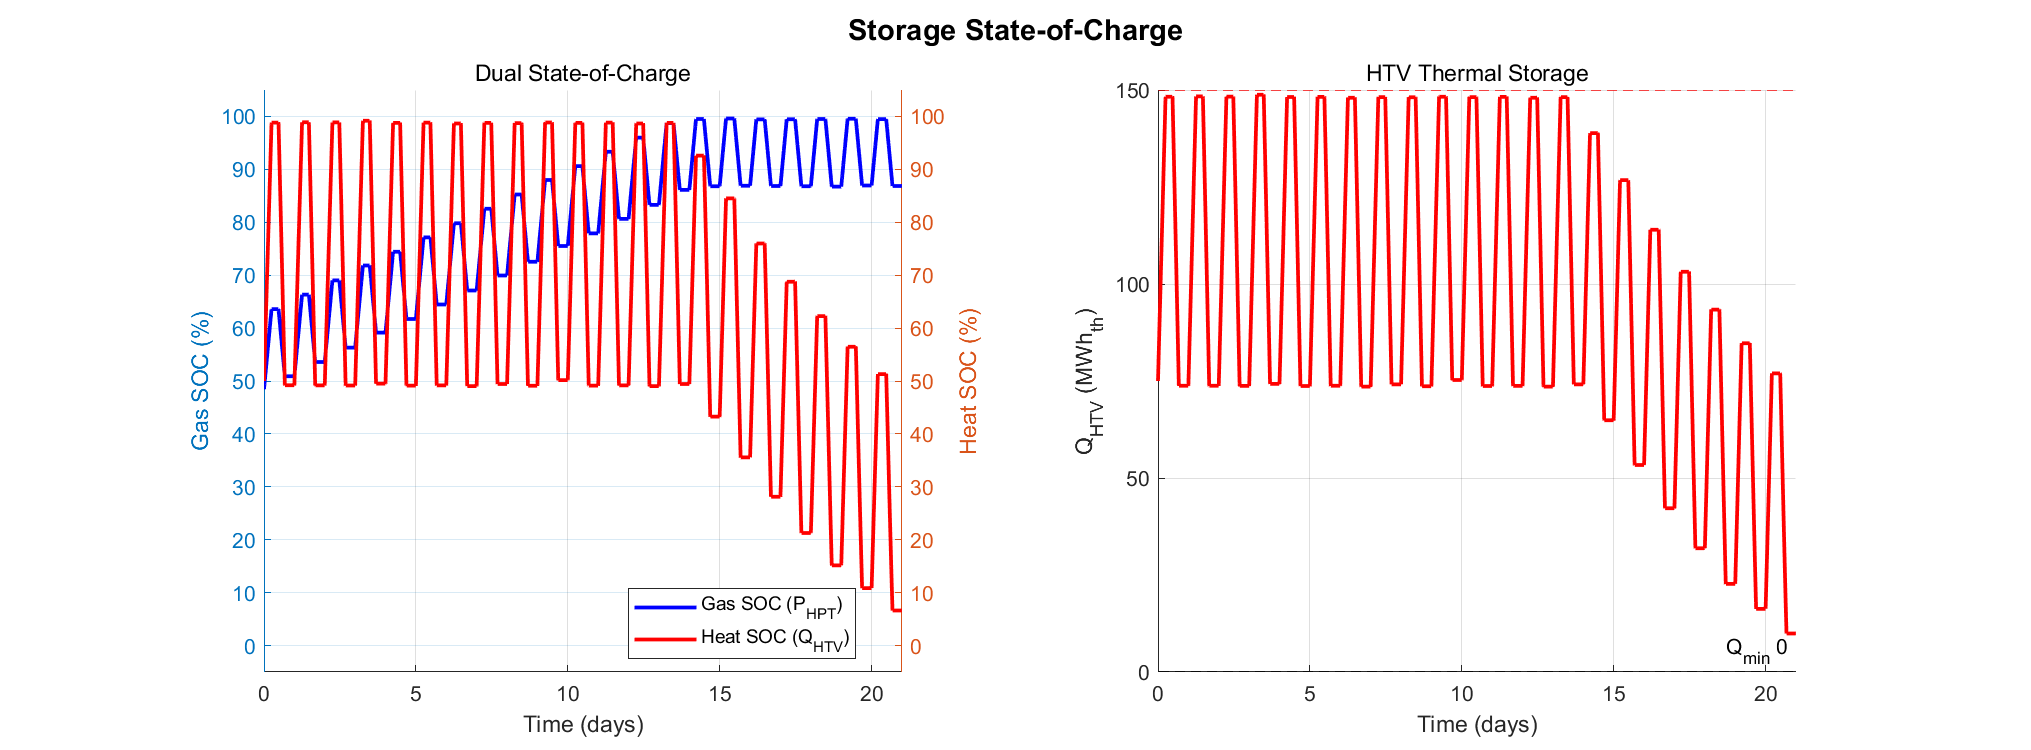
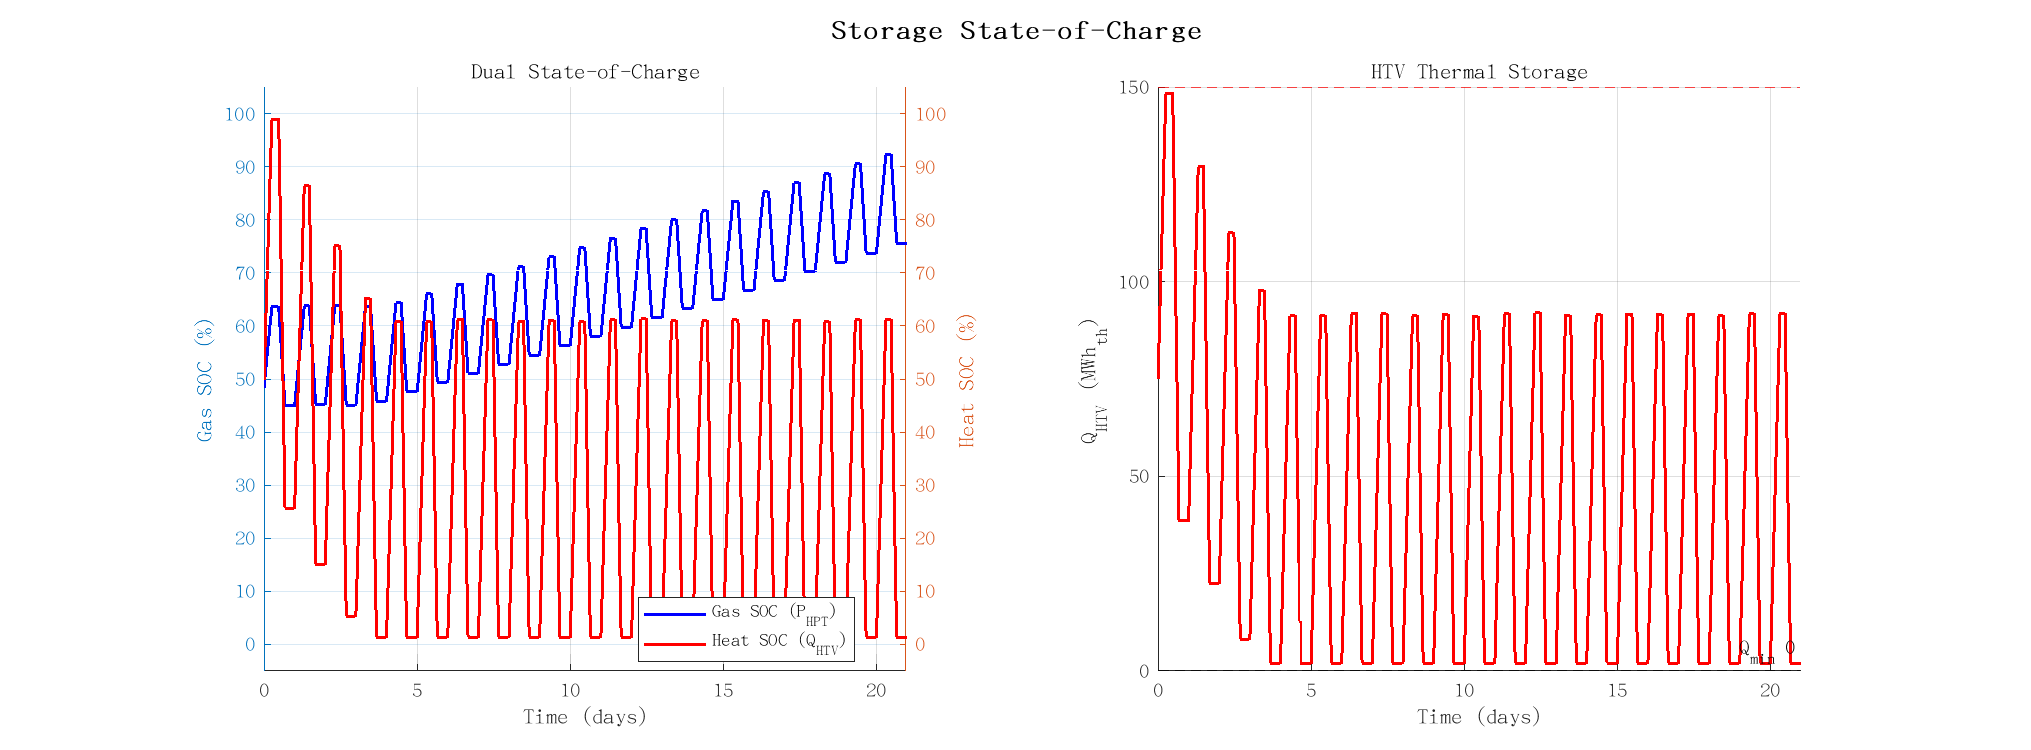
feat: dynamic P_sat(T_tank) with precomputed LUT, asymmetric mass flows
ode_dynamics: 89-point T/P_sat LUT (260-304K), recalculated each step.
rho_liq/rho_vap also recomputed at T_tank for m_sat bounds.
Charge: alpha1=2.744, Discharge: alpha2=4.117 with W_T=10.12 MW.
SOC stable 45-92%, RTE 63.8%, no mass drift over 21 days.

diff --git a/CCES_CHP_Simulink/src/ode/ode_dynamics.m b/CCES_CHP_Simulink/src/ode/ode_dynamics.m
@@ -1,36 +1,40 @@
 function [dx, W_comp, Q_IC, W_turb, Q_HR, T_heat, mode] = ode_dynamics(t, x)
 % 两相储罐 ODE: HPT液态CO2 + 饱和压力模型
 % x(1)=m_HPT [kg], x(2)=Q_HTV [MJ], x(3)=T_tank [K]
-persistent lib Fluid rho_liq rho_vap V_HPT P_sat0
+persistent lib Fluid T_sat_vec P_sat_vec V_HPT
 
 if isempty(lib)
     addpath(fullfile(fileparts(mfilename('fullpath')), '..', '..'));
     cfg = config_paths();
     lib = cfg.REFPROP_LIB;  Fluid = 'CO2';
-    % HPT两相参数 (298K参考值)
-    rho_liq = getFP(lib, 'D', 'T', 298, 'Q', 0, Fluid);  % 饱和液密度 kg/m³
-    rho_vap = getFP(lib, 'D', 'T', 298, 'Q', 1, Fluid);  % 饱和汽密度 kg/m³
-    P_sat0  = getFP(lib, 'P', 'T', 298, 'Q', 0, Fluid);  % 饱和压力 Pa
-    V_HPT   = 6228;
-    fprintf('HPT两相模型: rho_liq=%.0f, rho_vap=%.0f kg/m3, P_sat=%.2f MPa\n', ...
-        rho_liq, rho_vap, P_sat0/1e6);
+    V_HPT = 6228;
+    % 预计算饱和曲线 (260-304K)
+    T_sat_vec = (260:0.5:304)';
+    P_sat_vec = zeros(size(T_sat_vec));
+    for i = 1:length(T_sat_vec)
+        P_sat_vec(i) = getFP(lib, 'P', 'T', T_sat_vec(i), 'Q', 0, Fluid);
+    end
+    fprintf('HPT两相模型: P_sat LUT %d pts (%.0f-%.0fK)\n', length(T_sat_vec), T_sat_vec(1), T_sat_vec(end));
 end
 
 m_HPT = x(1);  Q_HTV_MJ = x(2);  T_tank = x(3);
 
-% ==== 两相储罐压力模型 ====
-m_sat_liq = rho_liq * V_HPT;   % 满液质量
-m_sat_vap = rho_vap * V_HPT;   % 全气相质量(饱和态)
+% 当前温度下的饱和压力和密度 (夹在260-304K范围内)
+T_clamp = max(260, min(304, T_tank));
+P_sat_T = interp1(T_sat_vec, P_sat_vec, T_clamp, 'linear');
+rho_liq_T = getFP(lib, 'D', 'T', T_clamp, 'Q', 0, Fluid);
+rho_vap_T = getFP(lib, 'D', 'T', T_clamp, 'Q', 1, Fluid);
+
+% ==== 两相储罐压力模型 (温度相关) ====
+m_sat_liq = rho_liq_T * V_HPT;
+m_sat_vap = rho_vap_T * V_HPT;
 
 if m_HPT >= m_sat_liq
-    % 过满: 纯液相, 不可压缩 → P急剧上升 (按液体压缩性估算 ~0.01 MPa per ‰)
     overfill_frac = (m_HPT - m_sat_liq) / m_sat_liq;
-    P_MPa = P_sat0/1e6 + overfill_frac * 1000;  % 1%满 → +10 MPa
+    P_MPa = P_sat_T/1e6 + overfill_frac * 1000;
 elseif m_HPT > m_sat_vap
-    % 两相区: 压力=饱和压力 (仅由T决定, 与充装量无关)
-    P_MPa = P_sat0 / 1e6;
+    P_MPa = P_sat_T / 1e6;
 else
-    % 液相耗尽, 全气相: 理想气体近似
     P_MPa = m_HPT * 188.9 * T_tank / V_HPT / 1e6;
 end
 
@@ -53,26 +57,28 @@ T_heat = 298 + 185 * Q_MWh / (Q_MWh + 20);
 W_design = 10;  % MW
 
 if mode == 1 && P_ok_ch && Q_ok_ch
-    % ===== 充电: C1→IC1→C2→IC2→LHE =====
+    % ===== 充电 =====
+    alpha_ch = 2.744;  % kg/(s·MW)
+    m_dot = alpha_ch * W_design;                    % 27.44 kg/s
     [w_comp_kJ, q_IC_kJ] = charge_per_kg(lib, Fluid);
-    m_dot = W_design * 1e6 / (w_comp_kJ * 1000);   % kg/s
     dm_HPT = m_dot;
-    dQ_HTV = q_IC_kJ * m_dot / 1000;               % MJ/s
+    dQ_HTV = q_IC_kJ * m_dot / 1000;
     dT = (298 - T_tank) / 600;
-    W_comp = W_design;  Q_IC = q_IC_kJ * m_dot / 1000;
+    W_C_actual = m_dot * w_comp_kJ / 1000;         % ~9.74 MW
+    W_comp = W_C_actual;  Q_IC = q_IC_kJ * m_dot / 1000;
     W_turb = 0;  Q_HR = 0;
 
 elseif mode == -1 && P_ok_dis && Q_ok_dis
-    % ===== 放电: EHE→T1→HR2→T2 =====
+    % ===== 放电: 透平按设计额定功率运行 =====
+    alpha_dis = 4.117;  % kg/(s·MW)
+    W_T_design = 10.12; % MW (Cycle.m: T1 5.49 + T2 4.63)
+    m_dot = alpha_dis * W_T_design;                % ~41.7 kg/s
     [w_turb_kJ, q_HR_kJ] = discharge_per_kg(lib, Fluid, T_tank, T_heat);
-    W_T = W_design * w_turb_kJ / charge_per_kg(lib, Fluid);
-    m_dot = W_T * 1e6 / (w_turb_kJ * 1000);
     dm_HPT = -m_dot;
     dQ_HTV = -q_HR_kJ * m_dot / 1000;
-    % 蒸发降温: 液相抽出→闪蒸
     dT = -m_dot * 3e-5;
     W_comp = 0;  Q_IC = 0;
-    W_turb = W_T;  Q_HR = q_HR_kJ * m_dot / 1000;
+    W_turb = W_T_design;  Q_HR = q_HR_kJ * m_dot / 1000;
 
 else
     % ===== 待机: 环境回温 =====

diff --git a/config_paths.m b/config_paths.m
@@ -10,7 +10,7 @@ function cfg = config_paths()
         cfg.OUTPUT_DIR  = fullfile(fileparts(mfilename('fullpath')), 'output_figures');
     elseif isunix  % Ubuntu
         cfg.REFPROP_LIB = '/opt/refprop/';
-        cfg.MATLAB_BIN  = '/usr/local/MATLAB/R2024a/bin/matlab';
+        cfg.MATLAB_BIN  = '/opt/MATLAB/R2024a/bin/matlab';
         cfg.DATA_DIR    = fullfile(fileparts(mfilename('fullpath')), 'data');
         cfg.OUTPUT_DIR  = fullfile(fileparts(mfilename('fullpath')), 'output_figures');
     else
